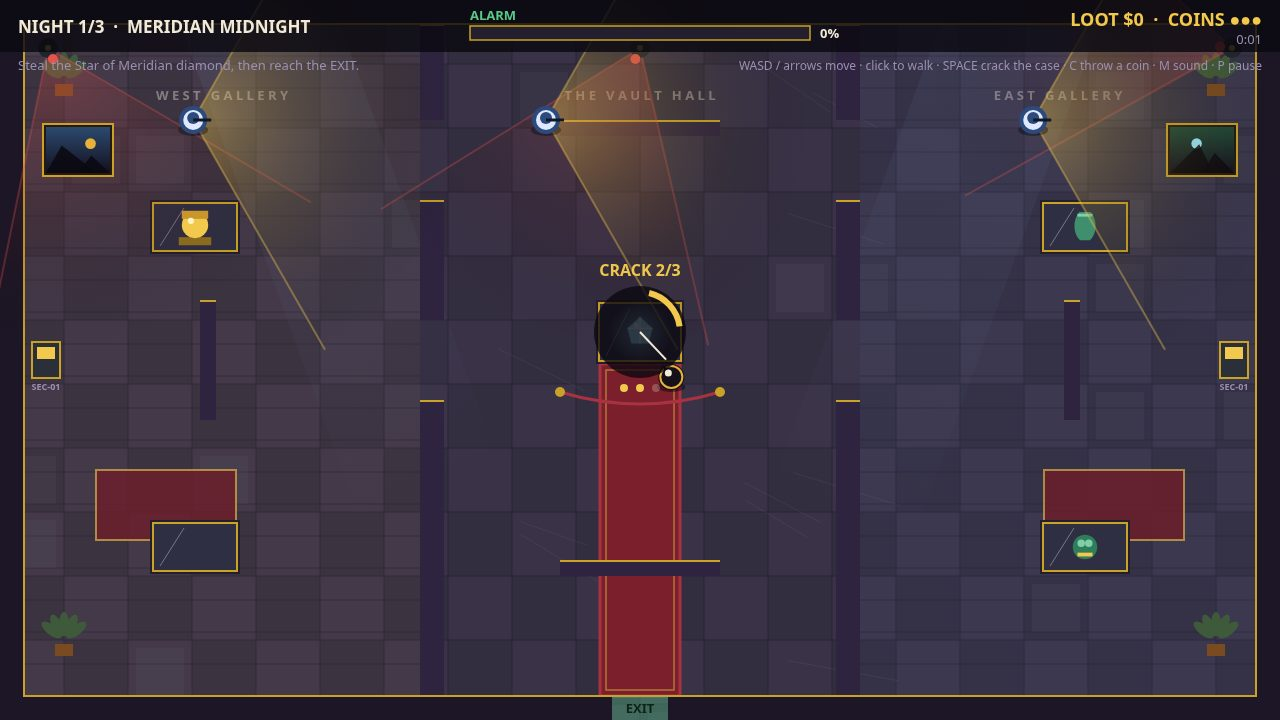
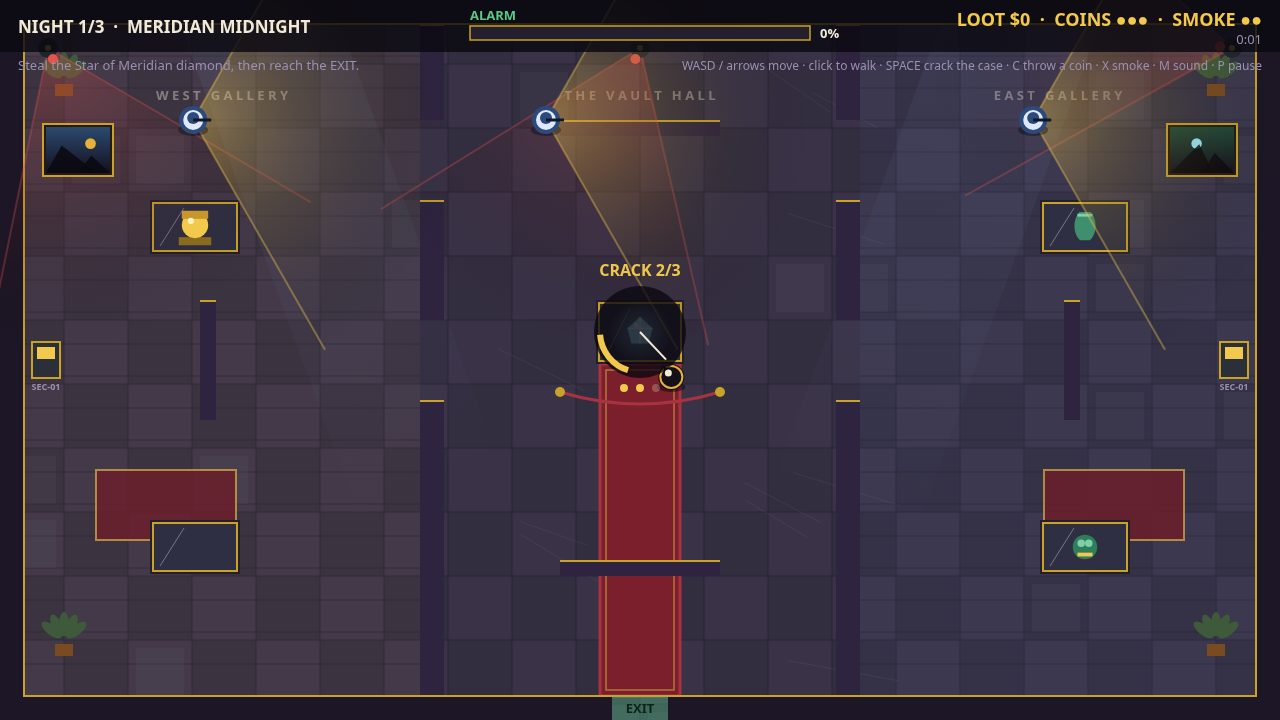
v4: smoke bomb tool, Night 3 gala loot shuffle, chase shot is Night 3

diff --git a/game/src/world.js b/game/src/world.js
@@ -1,7 +1,7 @@
 // Meridian Midnight: the museum, its guards, cameras, lasers and loot.
 // One fixed step of simulation, pure rules, no drawing and no input devices.
 
-import { ALARM, CAMERA, COIN, CRACK, FIELD, GUARD, LOOT_VALUES, NIGHTS, STEP, TERMINAL, THIEF } from './config.js';
+import { ALARM, CAMERA, COIN, CRACK, FIELD, GUARD, LOOT_VALUES, NIGHTS, SMOKE, STEP, TERMINAL, THIEF } from './config.js';
 import { angleDiff, angleTo, clamp, dist, mulberry32 } from './random.js';
 
 /** Screens the game can be on. */
@@ -99,9 +99,12 @@ export function buildSolids() {
   return solids;
 }
 
-/** Loot placed on the floor plan. `art` seeds each painting's miniature. */
-export function buildLoot(rng) {
-  return [
+/** Loot placed on the floor plan. `art` seeds each painting's miniature.
+ * Night 3 is the gala: the gallery is rearranged, so the paintings move
+ * into the vault hall flanking the diamond and the bust, vase and idol
+ * rotate to the opposite pedestals — the same museum, a different route. */
+export function buildLoot(rng, night = 1) {
+  const loot = [
     { id: 'painting-a', kind: 'painting', name: 'Portrait of the Duchess', x: 78, y: 150, value: LOOT_VALUES.painting, taken: false, art: Math.floor(rng() * 100000) },
     { id: 'painting-b', kind: 'painting', name: 'The Gilded Valley', x: 1202, y: 150, value: LOOT_VALUES.painting, taken: false, art: Math.floor(rng() * 100000) },
     { id: 'bust', kind: 'bust', name: 'Golden Bust of Aurelius', x: 195, y: 227, value: LOOT_VALUES.bust, taken: false, art: 0 },
@@ -109,6 +112,16 @@ export function buildLoot(rng) {
     { id: 'diamond', kind: 'diamond', name: 'The Star of Meridian', x: 640, y: 332, value: LOOT_VALUES.diamond, taken: false, art: 0 },
     { id: 'relic', kind: 'relic', name: 'Jade Jaguar Idol', x: 1085, y: 547, value: 650, taken: false, art: 0 },
   ];
+  if (night >= 3) {
+    const spot = { 'painting-a': [470, 120], 'painting-b': [810, 120], bust: [1085, 547], vase: [195, 227], relic: [195, 547] };
+    for (const item of loot) {
+      if (spot[item.id]) {
+        item.x = spot[item.id][0];
+        item.y = spot[item.id][1];
+      }
+    }
+  }
+  return loot;
 }
 
 /** True when an angle lies inside the arc [start, start + arc], wrapping. */
@@ -182,7 +195,7 @@ export function createWorld(night, seed) {
     night,
     seed,
     solids: buildSolids(),
-    loot: buildLoot(rng),
+    loot: buildLoot(rng, night),
     guards,
     cameras,
     lasers,
@@ -193,6 +206,9 @@ export function createWorld(night, seed) {
     // Coins are a limited tool: three a night, thrown ahead of Rook.
     coins: COIN.count,
     thrownCoins: [],
+    // Smoke bombs are a limited tool: two a night, dropped at Rook's feet.
+    smokeBombs: SMOKE.count,
+    smoke: [],
     // Where the safe-crack dial's gold zone starts; it jumps on every hit.
     crackZone: 0.5,
     thief: { x: 640, y: 660, radius: THIEF.radius, crack: 0, hack: 0, moving: false, face: -Math.PI / 2 },
@@ -213,11 +229,25 @@ export function createWorld(night, seed) {
   };
 }
 
-/** Can `eye` see the thief: in range, inside the cone, line of sight clear. */
+/** True when the segment (x1,y1)-(x2,y2) passes through the circle. */
+export function segmentHitsCircle(x1, y1, x2, y2, c) {
+  const dx = x2 - x1;
+  const dy = y2 - y1;
+  const len2 = dx * dx + dy * dy;
+  if (len2 === 0) return Math.hypot(c.x - x1, c.y - y1) < c.radius;
+  const t = clamp(((c.x - x1) * dx + (c.y - y1) * dy) / len2, 0, 1);
+  return Math.hypot(c.x - (x1 + dx * t), c.y - (y1 + dy * t)) < c.radius;
+}
+
+/** Can `eye` see the thief: in range, inside the cone, line of sight clear,
+ * and no smoke cloud between eye and thief. */
 export function canSee(eye, range, halfAngle, world) {
   const t = world.thief;
   if (dist(eye.x, eye.y, t.x, t.y) > range) return false;
   if (angleDiff(eye.dir ?? eye.angle, angleTo(eye.x, eye.y, t.x, t.y)) > halfAngle) return false;
+  for (const cloud of world.smoke) {
+    if (segmentHitsCircle(eye.x, eye.y, t.x, t.y, cloud)) return false;
+  }
   return lineOfSight(eye.x, eye.y, t.x, t.y, world.solids);
 }
 
@@ -284,6 +314,18 @@ export function stepWorld(world, input, dt) {
   }
   for (const coin of world.thrownCoins) coin.life -= dt;
   world.thrownCoins = world.thrownCoins.filter((c) => c.life > 0);
+
+  // --- Smoke: a limited tool. X drops one at Rook's feet; the cloud
+  // hangs for a few seconds and blinds every eye whose sight crosses it,
+  // so a chase can be broken by vanishing inside it.
+  if (action === 'smoke' && world.smokeBombs > 0) {
+    world.smokeBombs -= 1;
+    world.smoke.push({ x: thief.x, y: thief.y, radius: SMOKE.radius, life: SMOKE.seconds });
+    burst(world, thief.x, thief.y, '#c8c8d2', 14);
+    world.floaters.push({ x: thief.x, y: thief.y - 24, text: 'SMOKE!', life: 1.2, max: 1.2 });
+  }
+  for (const cloud of world.smoke) cloud.life -= dt;
+  world.smoke = world.smoke.filter((c) => c.life > 0);
 
   // --- Loot: touch to grab; the diamond needs the crack minigame.
   const diamond = world.loot.find((l) => l.kind === 'diamond');

diff --git a/game/src/render.js b/game/src/render.js
@@ -1,7 +1,7 @@
 // Meridian Midnight: everything the player sees, drawn on one canvas.
 // The room, the cones, the loot, the HUD and every screen, all in 2D.
 
-import { ALARM, CAMERA, COIN, CRACK, FIELD, FONT, GUARD, PALETTE, TERMINAL } from './config.js';
+import { ALARM, CAMERA, COIN, CRACK, FIELD, FONT, GUARD, PALETTE, SMOKE, TERMINAL } from './config.js';
 import { SCREEN_BUSTED, SCREEN_CLEAR, SCREEN_PAUSED, SCREEN_PLAY, SCREEN_TITLE, SCREEN_WIN } from './world.js';
 import { mulberry32 } from './random.js';
 
@@ -163,6 +163,25 @@ function drawThrownCoins(ctx, world) {
     ctx.beginPath();
     ctx.arc(coin.x, coin.y, 10 + Math.sin(world.time * 8) * 2, 0, Math.PI * 2);
     ctx.stroke();
+  }
+}
+
+/** Smoke clouds, drawn over the thief: a grey veil that hides him. */
+function drawSmoke(ctx, world) {
+  for (const cloud of world.smoke) {
+    const fade = Math.min(1, cloud.life / 1.5);
+    ctx.globalAlpha = fade;
+    ctx.fillStyle = PALETTE.smoke;
+    ctx.beginPath();
+    ctx.arc(cloud.x, cloud.y, cloud.radius, 0, Math.PI * 2);
+    ctx.fill();
+    ctx.fillStyle = PALETTE.smokeCore;
+    ctx.beginPath();
+    ctx.arc(cloud.x - 26, cloud.y - 14, 42, 0, Math.PI * 2);
+    ctx.arc(cloud.x + 30, cloud.y + 10, 38, 0, Math.PI * 2);
+    ctx.arc(cloud.x + 6, cloud.y - 30, 34, 0, Math.PI * 2);
+    ctx.fill();
+    ctx.globalAlpha = 1;
   }
 }
 
@@ -519,11 +538,11 @@ function drawHud(ctx, world) {
   ctx.font = `bold 13px ${FONT}`;
   ctx.textAlign = 'left';
   ctx.fillText(`${Math.floor(world.alarm)}%`, ax + aw + 10, 38);
-  // Loot, coins left, and time.
+  // Loot, coins and smoke left, and time.
   ctx.textAlign = 'right';
   ctx.fillStyle = PALETTE.gold;
   ctx.font = `bold 18px ${FONT}`;
-  ctx.fillText(`LOOT $${world.lootValue.toLocaleString('en-US')}  ·  COINS ${'●'.repeat(world.coins)}${'○'.repeat(COIN.count - world.coins)}`, 1262, 26);
+  ctx.fillText(`LOOT $${world.lootValue.toLocaleString('en-US')}  ·  COINS ${'●'.repeat(world.coins)}${'○'.repeat(COIN.count - world.coins)}  ·  SMOKE ${'●'.repeat(world.smokeBombs)}${'○'.repeat(SMOKE.count - world.smokeBombs)}`, 1262, 26);
   ctx.fillStyle = PALETTE.muted;
   ctx.font = `13px ${FONT}`;
   const mins = Math.floor(world.time / 60);
@@ -549,7 +568,7 @@ function drawHud(ctx, world) {
   ctx.fillStyle = PALETTE.muted;
   ctx.font = `12px ${FONT}`;
   ctx.textAlign = 'right';
-  ctx.fillText('WASD / arrows move · click to walk · SPACE crack the case · C throw a coin · M sound · P pause', 1262, 70);
+  ctx.fillText('WASD / arrows move · click to walk · SPACE crack the case · C throw a coin · X smoke · M sound · P pause', 1262, 70);
 }
 
 function drawParticles(ctx, world) {
@@ -634,6 +653,7 @@ export function render(ctx, world, time, best) {
   for (const loot of world.loot) drawLoot(ctx, loot, time);
   for (const guard of world.guards) drawGuard(ctx, guard, time);
   drawThief(ctx, world, time);
+  drawSmoke(ctx, world);
   drawThrownCoins(ctx, world);
   drawCrackDial(ctx, world);
   drawParticles(ctx, world);
@@ -664,13 +684,13 @@ export function render(ctx, world, time, best) {
     ctx.fillText('One thief. One diamond. Three nights in the Meridian Museum.', FIELD.width / 2, 375);
     ctx.fillStyle = PALETTE.text;
     ctx.font = `17px ${FONT}`;
-    ctx.fillText('Dodge the guards’ cones, toss a coin to pull one away, hack a terminal to blind the cameras, crack the case — and vanish.', FIELD.width / 2, 410);
+    ctx.fillText('Dodge the guards’ cones, toss a coin to pull one away, drop smoke to vanish, hack a terminal to blind the cameras, crack the case — and vanish.', FIELD.width / 2, 410);
     ctx.fillStyle = PALETTE.gold;
     ctx.font = `bold 20px ${FONT}`;
     ctx.fillText('Press ENTER to begin the heist', FIELD.width / 2, 470);
     ctx.fillStyle = PALETTE.muted;
     ctx.font = `15px ${FONT}`;
-    ctx.fillText('WASD / arrows or click to move  ·  SPACE crack the case  ·  C throw a coin  ·  M sound  ·  P pause', FIELD.width / 2, 505);
+    ctx.fillText('WASD / arrows or click to move  ·  SPACE crack the case  ·  C throw a coin  ·  X drop smoke  ·  M sound  ·  P pause', FIELD.width / 2, 505);
     if (best > 0) {
       ctx.fillStyle = PALETTE.gold;
       ctx.font = `16px ${FONT}`;

diff --git a/game/src/shots.js b/game/src/shots.js
@@ -5,7 +5,7 @@
 // same seed always gives the same frame.
 
 import { SCREEN_CLEAR, SCREEN_PLAY, stepWorld } from './world.js';
-import { CRACK, STEP } from './config.js';
+import { CRACK, SMOKE, STEP } from './config.js';
 
 const START_SECONDS = 1;
 const PLAY_SECONDS = 16;
@@ -92,8 +92,9 @@ export function stageShot(name, world) {
     return { screen: SCREEN_PLAY };
   }
   if (name === 'chase') {
-    // Night 2: five guards, four cameras, two lasers — and Rook has just
-    // hacked the west terminal, so the cameras are blind while he runs.
+    // Night 3, the gala: five guards, three lasers, the loot rearranged —
+    // and Rook has just hacked the west terminal, so the cameras are blind
+    // while he runs. He drops a smoke bomb at his feet as the guards close in.
     world.status = SCREEN_PLAY;
     const diamond = world.loot.find((l) => l.kind === 'diamond');
     diamond.taken = true;
@@ -118,6 +119,10 @@ export function stageShot(name, world) {
     // South-west, down the carpet toward the EXIT: the second chaser waits
     // south-east, so a straight run south runs into his arms.
     simulate(world, CHASE_SECONDS, () => ({ mx: -0.5, my: 0.86, tx: null, ty: null }));
+    // Smoke at Rook's feet, one bomb spent — the frame shows the escape tool
+    // in use, not just described in the rules.
+    world.smoke.push({ x: world.thief.x, y: world.thief.y, radius: SMOKE.radius, life: 4 });
+    world.smokeBombs -= 1;
     return { screen: SCREEN_PLAY };
   }
   if (name === 'win') {

diff --git a/game/src/config.js b/game/src/config.js
@@ -41,6 +41,18 @@ export const COIN = {
   investigateSeconds: 4,
 };
 
+/** A smoke bomb: a limited tool that drops at Rook's feet and blinds every
+ * eye — guard or camera — whose line of sight crosses the cloud. Two a
+ * night, for the moment a chase has to end. */
+export const SMOKE = {
+  /** Smoke bombs Rook carries each night. */
+  count: 2,
+  /** Radius of the cloud, in pixels. */
+  radius: 95,
+  /** Seconds the cloud hangs in the air. */
+  seconds: 5,
+};
+
 /** Security terminals: stand at one and hold still to hack it. */
 export const TERMINAL = {
   radius: 16,
@@ -127,6 +139,8 @@ export const PALETTE = {
   terminal: '#2a2f3a',
   terminalScreen: '#f2c94c',
   terminalHacked: '#58c98a',
+  smoke: 'rgba(200, 200, 210, 0.30)',
+  smokeCore: 'rgba(224, 224, 232, 0.42)',
   zoneWest: 'rgba(242, 180, 90, 0.05)',
   zoneEast: 'rgba(90, 160, 242, 0.05)',
   hud: 'rgba(10, 8, 16, 0.82)',

diff --git a/game/src/input.js b/game/src/input.js
@@ -8,7 +8,7 @@ export function createInput() {
     my: 0,
     tx: null,
     ty: null,
-    /** One-shot action for the next step: 'coin' or 'crack', consumed by the world. */
+    /** One-shot action for the next step: 'coin', 'crack' or 'smoke', consumed by the world. */
     action: null,
     keys: new Set(),
   };

diff --git a/game/src/main.js b/game/src/main.js
@@ -78,6 +78,10 @@ function onKey(code) {
     input.action = 'coin';
     return;
   }
+  if (code === 'KeyX' && world.status === SCREEN_PLAY) {
+    input.action = 'smoke';
+    return;
+  }
   if (code === 'Space' && world.status === SCREEN_PLAY) {
     input.action = 'crack';
     return;

diff --git a/README.md b/README.md
@@ -21,6 +21,8 @@ Then open http://localhost:8080 in a desktop browser. No build step, no network 
 - **Cameras** sweep the halls with red cones. Stand at a **security terminal** (one on each side wall) and hold still for 2 seconds to hack it: every camera goes blind for 12 seconds, so the middle of the hall is safe to cross. **Lasers** (Night 2+) blink across the doorways — crossing a lit beam spikes the alarm.
 - Each room connects to the next through **two door gaps**, so every crossing is a choice: the middle gap or the top gap, whichever the patrols leave open.
 - **Coins** are a limited tool — three a night. Press **C** to toss one ahead of you: any guard close enough leaves his patrol to investigate the clink.
+- **Smoke bombs** are a second limited tool — two a night. Press **X** to drop one at your feet: the cloud hangs for 5 seconds and blinds every guard and camera whose sight crosses it, so a chase can be broken by vanishing inside it.
+- **Night 3 is the gala**: the museum rearranges the gallery — the paintings move into the vault hall flanking the diamond, and the bust, vase and idol rotate to the opposite pedestals. Same museum, different route, more guards, one more laser.
 - The diamond case is a **timing crack**: a needle sweeps a dial, and **SPACE** inside the gold zone lands a hit. Three hits crack the case; a press outside the zone slips the pick and jumps the alarm.
 - The museum itself reacts: a low pulse quickens as the alarm rises, and every room has its own floor — parquet in the galleries, veined marble in the vault hall.
 - At **100% alarm** the museum locks down and every guard runs at you. If one catches you, the night is over.
